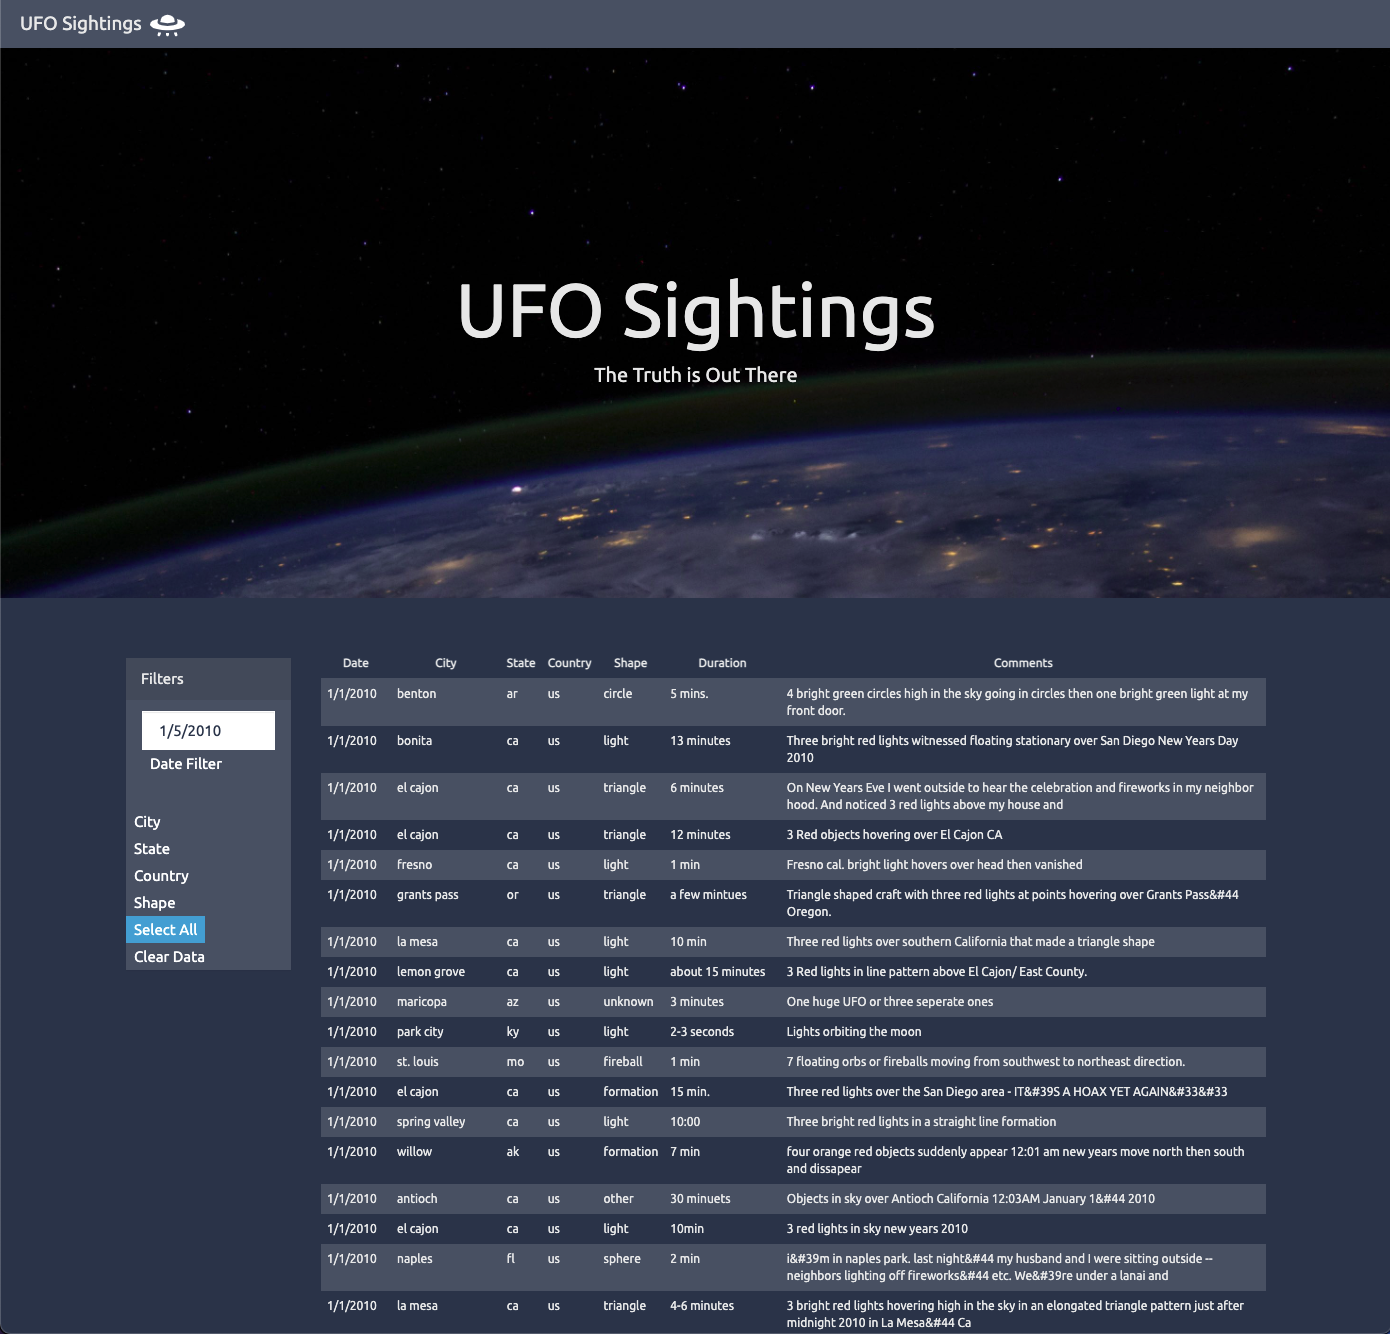
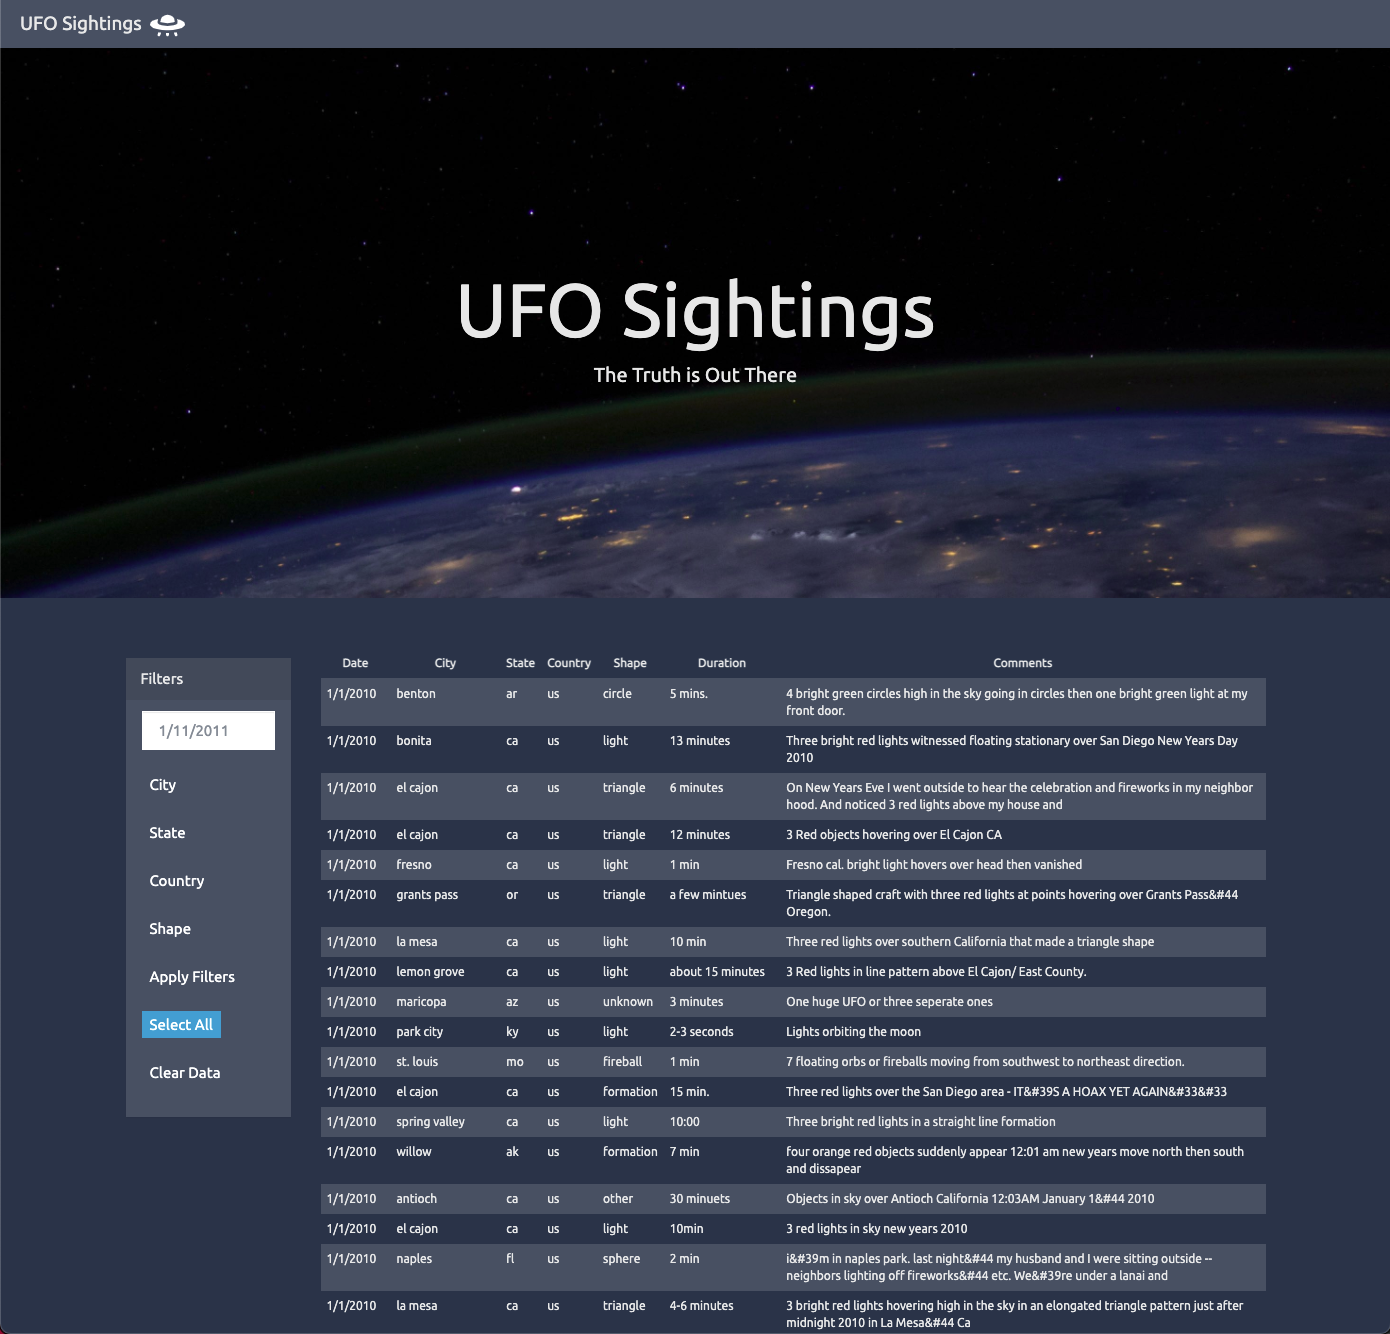
Changing code for bonus, left previous file as appPrevious but probably wont work correctly since I changed the html file to fit new version. Also modified readme and images, only 1 version for normal and bonus.

diff --git a/UFO-level-1/static/js/appPrevious.js b/UFO-level-1/static/js/appPrevious.js
@@ -2,7 +2,7 @@
 var tableData = data;
 
 // Selecting 
-var dateInput = d3.select("#filters");
+var form = d3.select("#filters");
 var filterButton = d3.select("#filter-btn");
 var allButton = d3.select("#all-btn");
 var clearButton = d3.select("#clear-btn");
@@ -43,8 +43,8 @@ var countryDropdownItem = d3.selectAll("#country-dropdown-item");
 var shapeDropdownItem = d3.selectAll("#shape-dropdown-item");
 
 // Event handlers
-dateInput.on("submit", runFilter);
-filterButton.on("click", runFilter);
+form.on("submit", runDate);
+filterButton.on("click", runDate);
 allButton.on("click", runAll);
 clearButton.on("click", runClear);
 cityDropdownItem.on("click", runCities)
@@ -53,46 +53,39 @@ countryDropdownItem.on("click", runCountries)
 shapeDropdownItem.on("click", runShapes)
 
 // Adding functions 
-function runFilter() {
-  //  d3.event.preventDefault();
-    var textInput = d3.select("#datetime").property("value");
-    var cityInput = d3.select("#city-button").text();
-    var stateInput = d3.select("#state-button").text();
-    var countryInput = d3.select("#country-button").text();
-    var shapeInput = d3.select("#shape-button").text();
-    var filterItems = {"datetime":textInput, "city":cityInput, "state":stateInput, "country":countryInput, "shape":shapeInput};
-    var filteredResults = tableData;
-    Object.entries(filterItems).forEach(([key, value]) => {
-        if (value !== 0 && value !== "" && value !== "City" && value !== "State" && value !== "Country" && value !== "Shape") {
-            filteredResults = filteredResults.filter(ufo => ufo[key] === value);
-        }
-    })
-    if ( filteredResults === tableData) {
-        filterButton.attr("class", "btn-warning");
+function runDate() {
+    // d3.event.preventDefault();
+    var inputElement = d3.select("#datetime");
+    var inputValue = inputElement.property("value");
+    var filteredUfo = tableData.filter(date => (date.datetime === inputValue));
+    if ( filteredUfo.length !== 0 ) {
+        clearFilters();
+        filterButton.attr("class", "btn-info");
+        dataPrinter(filteredUfo);
+    } else {
+        clearFilters();
+        filterButton.attr("class", "btn-danger");
         var ufoTbody = d3.select("#ufo-tbody");
         ufoTbody.html("");
-        ufoTbody.append("h3").text(`It looks like you have not selected any filters...`);    
-        allButton.attr("class", "btn-default");
-    } else if ( filteredResults.length !== 0 ) {
-        filterButton.attr("class", "btn-success");
-        dataPrinter(filteredResults);
-    } else {
-        runError();
+        ufoTbody.append("h3").text(`The date selected ( ${inputValue} ) was not found. Please try the following dates:`);
+        var firstOne = 0;
+        var lastOne = 0;
+        tableData.forEach(ufo => {
+            firstOne += 1;
+            if ( firstOne === 1 ) {
+                ufoTbody.append("h5").text(ufo.datetime);
+            } else if ( lastOne !== ufo.datetime ) {
+                ufoTbody.append("h5").text(ufo.datetime);
+            }
+            lastOne = ufo.datetime;
+        })
     }
 };
-
-function runError() {
-    filterButton.attr("class", "btn-danger");
-    var ufoTbody = d3.select("#ufo-tbody");
-    ufoTbody.html("");
-    ufoTbody.append("h3").text(`There is no data for the filters selected.`);    
-}
 
 function runAll() {
     dataPrinter(tableData);
     clearFilters();
     allButton.attr("class", "btn-info");
-
 };
 
 function runClear() {
@@ -104,29 +97,37 @@ function runClear() {
 function runCities() {
     var inputSelected = d3.select(this);
     var selectedCity = inputSelected.text();
+    var filteredCity = tableData.filter(ufo => (ufo.city === selectedCity));
+    dataPrinter(filteredCity);
+    clearFilters();
     d3.select("#city-button").text(selectedCity).style("text-transform", "capitalize").attr("class", "btn-info");
-    allButton.attr("class", "btn-default");
 };
 
 function runStates() {
     var inputSelected = d3.select(this);
     var selectedState = inputSelected.text();
+    var filteredState = tableData.filter(ufo => (ufo.state === selectedState));
+    dataPrinter(filteredState);
+    clearFilters();
     d3.select("#state-button").text(selectedState).style("text-transform", "capitalize").attr("class", "btn-info");
-    allButton.attr("class", "btn-default");
 };
 
 function runCountries() {
     var inputSelected = d3.select(this);
     var selectedCountry = inputSelected.text();
+    var filteredCountry = tableData.filter(ufo => (ufo.country === selectedCountry));
+    dataPrinter(filteredCountry);
+    clearFilters();
     d3.select("#country-button").text(selectedCountry).style("text-transform", "capitalize").attr("class", "btn-info");
-    allButton.attr("class", "btn-default");
 };
 
 function runShapes() {
     var inputSelected = d3.select(this);
     var selectedShape = inputSelected.text();
+    var filteredShape = tableData.filter(ufo => (ufo.shape === selectedShape));
+    dataPrinter(filteredShape);
+    clearFilters();
     d3.select("#shape-button").text(selectedShape).style("text-transform", "capitalize").attr("class", "btn-info");
-    allButton.attr("class", "btn-default");
 };
 
 function uniqueFilter(value, index, self) {
@@ -141,7 +142,6 @@ function clearFilters() {
     allButton.attr("class", "btn-default");
     filterButton.attr("class", "btn-default");
     clearButton.attr("class", "btn-default");
-    d3.select('#datetime').property("value", "");
 };
 
 function dataPrinter(list) {

diff --git a/UFO-level-1/index.html b/UFO-level-1/index.html
@@ -39,33 +39,38 @@
                     <ul class="list-group" id="filters">
                       <li class="filter list-group-item">
                         <input class="form-control" id="datetime" type="text" placeholder="1/11/2011">
-                        <button id="filter-btn" type="button" class="btn btn-default">Date Filter</button>
                       </li>
+                      <li class="dropdown list-group-item">
+                        <button id="city-button" class="btn btn-default dropdown-toggle" type="button" data-toggle="dropdown">City
+                        </button>
+                        <ul id="city-dropdown" class="dropdown-menu"></ul>
+                      </li>
+                      <li class="dropdown list-group-item">
+                        <button id="state-button" class="btn btn-default dropdown-toggle" type="button" data-toggle="dropdown">State
+                        </button>
+                        <ul id="state-dropdown" class="dropdown-menu"></ul>
+                      </li>
+                      <li class="dropdown list-group-item">
+                        <button id="country-button" class="btn btn-default dropdown-toggle" type="button" data-toggle="dropdown">Country
+                        </button>
+                        <ul id="country-dropdown" class="dropdown-menu"></ul>
+                      </li>
+                      <li class="dropdown list-group-item">
+                        <button id="shape-button" class="btn btn-default dropdown-toggle" type="button" data-toggle="dropdown">Shape
+                        </button>
+                        <ul id="shape-dropdown" class="dropdown-menu"></ul>
+                      </li>
+                      <li class="list-group-item">
+                        <button id="filter-btn" type="button" class="btn btn-default">Apply Filters</button>
+                      </li>    
+                      <li class="list-group-item">
+                        <button id="all-btn" type="button" class="btn btn-default">Select All</button>
+                      </li>    
+                      <li class="list-group-item">
+                        <button id="clear-btn" type="button" class="btn btn-default">Clear Data</button>
+                      </li>    
                     </ul>
                   </div>
-                  <!-- This is where I can add different filters -->
-                  <div class="dropdown">
-                    <button id="city-button" class="btn btn-default dropdown-toggle" type="button" data-toggle="dropdown">City
-                    </button>
-                    <ul id="city-dropdown" class="dropdown-menu"></ul>
-                  </div>
-                  <div class="dropdown">
-                    <button id="state-button" class="btn btn-default dropdown-toggle" type="button" data-toggle="dropdown">State
-                    </button>
-                    <ul id="state-dropdown" class="dropdown-menu"></ul>
-                  </div>
-                  <div class="dropdown">
-                    <button id="country-button" class="btn btn-default dropdown-toggle" type="button" data-toggle="dropdown">Country
-                    </button>
-                    <ul id="country-dropdown" class="dropdown-menu"></ul>
-                  </div>
-                  <div class="dropdown">
-                    <button id="shape-button" class="btn btn-default dropdown-toggle" type="button" data-toggle="dropdown">Shape
-                    </button>
-                    <ul id="shape-dropdown" class="dropdown-menu"></ul>
-                  </div>
-                  <button id="all-btn" type="button" class="btn btn-default">Select All</button>
-                  <button id="clear-btn" type="button" class="btn btn-default">Clear Data</button>
                 </form>
               </div>
             </div>

diff --git a/README.md b/README.md
@@ -36,18 +36,15 @@ You can handle this... right? The planet Earth needs to know what we have found!
 
 ##### Home Screen
 ![Home Screen](UFO-level-1/static/images/home.png)
-##### Wrong date
-![Wrong Date Screen](UFO-level-1/static/images/wrong_date.png)
-##### Correct date
-![Correct Date Screen](UFO-level-1/static/images/right_date.png)
-##### City
-![City Screen](UFO-level-1/static/images/city.png)
-##### State
-![State Screen](UFO-level-1/static/images/state.png)
-##### Country
-![Country Screen](UFO-level-1/static/images/country.png)
-##### Shape
-![Shape Screen](UFO-level-1/static/images/shape.png)
-##### All
-![All Screen](UFO-level-1/static/images/all.png)
-
+##### Date Filter
+![Date Filter](UFO-level-1/static/images/date.png)
+##### Two Combined Filters
+![Two Combined Filters](UFO-level-1/static/images/twoCombined.png)
+##### Three Combined Filters
+![Three Combined Filters](UFO-level-1/static/images/threeCombined.png)
+##### Select All
+![Select All](UFO-level-1/static/images/all.png)
+##### Catching Error
+![Catching Error](UFO-level-1/static/images/caughtError.png)
+##### Catching Bug
+![Catching Bug](UFO-level-1/static/images/caughtBug.png)
